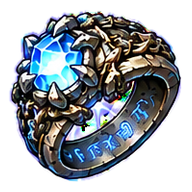
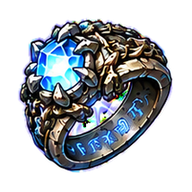
v0.7.2.0957: 거인왕 파동 출혈·소환수 절벽 제한·묘비 32%·전설 아이콘 색·부활 10,000G 등 묶음 (0951~0957)
Claude-Session: https://claude.ai/code/session_019uRSFLWrzZj28M4a6gukjc

diff --git a/HANDOFF.md b/HANDOFF.md
@@ -182,3 +182,11 @@
 - v0.7.2.0947: 묘비 개편(장판 5초·1%부터 0.5초마다 2배·7초 회복금지). 묘비 그림은 임시 도형 → 이미지 받으면 drawGmTomb에 연결. 설계 규칙: 회복 금지는 별말 없으면 항상 "물약·치유 오라만 회복"(hblk/hpLk). (로컬만)
 - v0.7.2.0948: 전설 아이콘 11종 크기 통일(빛 테두리 제거, 본체만 176px). 원본 시트는 사용자가 보낸 이미지(/tmp/h7_src.png는 세션 임시 파일). (로컬만)
 - v0.7.2.0949: 묘비 그림 적용(img/skill_tomb_fall.png 낙하, img/skill_tomb.png 박힌 모습; 원본은 사용자 이미지). 묘비 그림 대기 항목 해결. (로컬만)
+
+- v0.7.2.0951: 팁 버튼 스타일·닫기 버튼 수정(로컬만, 아직 푸시 전; 0950 표지 변경은 계속 푸시 제외)
+- v0.7.2.0952: 묘비 피해 상한 32%(GMT_MAX) · 일격필살 컷인 하단 설명 삭제(로컬만, 푸시 전; 0950 표지 변경은 계속 푸시 제외)
+- v0.7.2.0953: 전설 반지 아이콘 10% 축소(로컬만, 푸시 전)
+- v0.7.2.0954: 전설 칸 테두리·배경 청백색(rbg/RBGE), 랭킹 스냅샷에 ep 포함(로컬만, 푸시 전)
+- v0.7.2.0955: 파동 출혈 3초(GMB_SK.wave.bleed, 기존 bleed 상태 재사용; 로컬만, 푸시 전)
+- v0.7.2.0956: 소환수(minions) 절벽 위 이동 제한(로컬만, 푸시 전)
+- v0.7.2.0957: 즉시 부활 가격 2,000G → 10,000G (SHOP.rev.p; 패치노트에 기록, 로컬만, 푸시 전)
